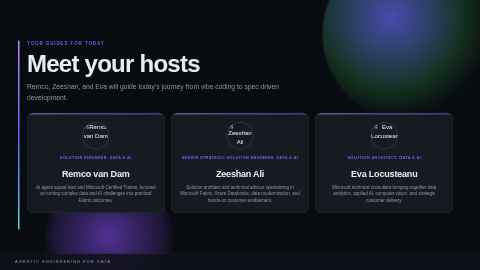
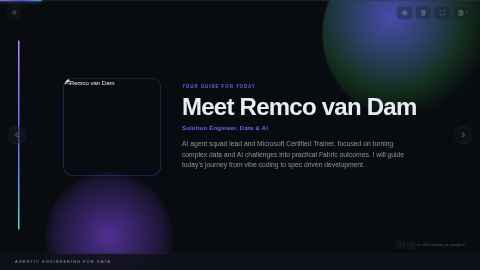
Auto-save from DECKIO — 2026-10-29T10:25

diff --git a/src/slides/HostIntroSlide.jsx b/src/slides/HostIntroSlide.jsx
@@ -10,7 +10,7 @@ export default function HostIntroSlide({ index }) {
 
       <div className={`${styles.body} content-frame content-gutter`}>
         <div className={styles.layout}>
-          <img className={styles.avatar} src="/presenters/remco.jpg" alt="Remco van Dam" />
+          <img className={styles.avatar} src="/presenters/remco.jpg?v=2" alt="Remco van Dam" />
           <div className={styles.copy}>
             <Editable as="p" id="hosts.eyebrow" className={styles.eyebrow}>Your guide for today</Editable>
             <Editable as="h2" id="hosts.title" className={styles.title}>Meet Remco van Dam</Editable>
